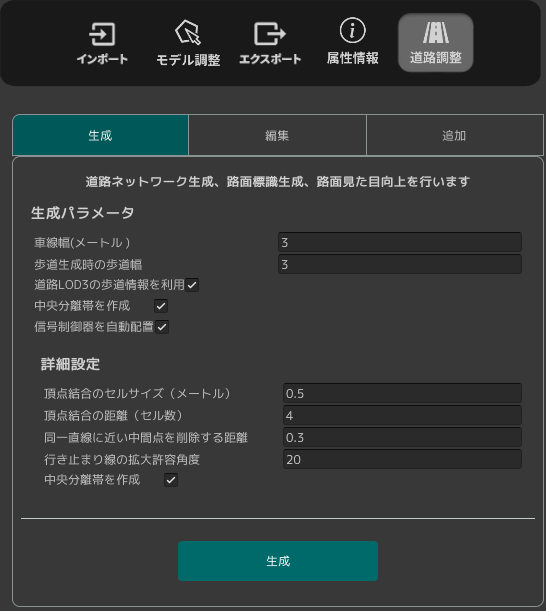
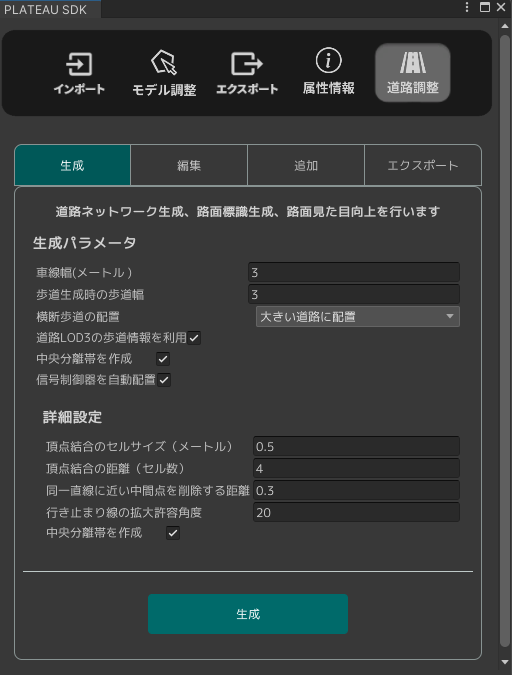
マニュアル追記

Changed region(s): [[0.0, 0.0, 1.0, 0.9951], [0.5, 0.3732, 0.9062, 0.4975]]

diff --git a/Documentation~/manual/RoadNetwork.md b/Documentation~/manual/RoadNetwork.md
@@ -29,15 +29,16 @@
 この画面を開くには、メニューバーの PLATEAU → PLATEAU SDKからウィンドウを開き、「道路調整」タブを開きます。  
 ![](../resources/manual/roadnetwork/generate_panel.png)
 
-道路調整の画面は次の3つのタブに分かれています。
+道路調整の画面は次の4つのタブに分かれています。
 - `生成`：道路ネットワークの自動生成ができます。
 - `編集`：生成済みの道路ネットワークの編集ができます。
 - `追加`：生成済みの道路ネットワークに新しい道路や交差点を追加できます。
+- `エクスポート`： 道路ネットワークをGeoJson形式でエクスポートできます。
 
 ### 「生成」タブ
 生成タブの画面では、インポート済みの道路モデルから道路ネットワークを自動で生成できます。  
 「生成」ボタンをクリックしてしばらくすると道路ネットワークが生成されます。  
-加えて、車道や停止線などの白線が生成され、歩道は段差になり、見た目が良くなります。 
+加えて、車道の白線や停止線、横断歩道、車線の矢印標示が生成され、歩道は段差になり、見た目が良くなります。 
 
 ![generated_road.png](../resources/manual/roadnetwork/generated_road.png)
 
@@ -45,7 +46,7 @@
 - `ReproducedRoad`という名称のゲームオブジェクト
   - 生成された道路メッシュおよび道路標示（白線、停止線など）がこの子オブジェクトに格納されます。
   - 各子オブジェクトにはコンポーネント `PLATEAUReproducedRoad` が付与されており、どの道路モデルから生成されたかが記録されます。
-  - 子ゲームオブジェクトの名称は、道路メッシュであれば `Generated-(道路オブジェクト名)` となり、道路標示であれば `RoadMarking-(道路オブジェクト名)` となります。
+  - 子ゲームオブジェクトの名称は、道路メッシュであれば `Road-(道路オブジェクト名)` となり、横断歩道であれあば`Crosswalk-(道路オブジェクト名)` 、白線および車線の矢印であれば `LaneArrow-(道路オブジェクト名)` となります。
 - `RoadNetworkTester`という名称のゲームオブジェクト
   - これに付与されているコンポーネント `PLATEAURnStructureModel` に道路ネットワークが格納されます。
   - 同ゲームオブジェクトに付与されているコンポーネント `PLATEAURnModelDrawerDebug`では、`Visible`をオンにすることで道路ネットワーク構造を可視化できます。
@@ -65,7 +66,8 @@
 
 - 生成パラメータ  
   - `車線幅（メートル）`：3D都市モデルの道路幅と車線幅を基準に車線が生成されます。車線数や形状に影響します。  
-  - `歩道生成時の歩道幅`：歩道が生成可能な場合にこの幅を基準に歩道が生成されます。  
+  - `歩道生成時の歩道幅`：歩道が生成可能な場合にこの幅を基準に歩道が生成されます。
+  - `横断歩道の配置`：横断歩道を配置する条件を指定します。
   - `道路LOD3の歩道情報を利用`：LOD3の道路に歩道情報があれば、それを利用して歩道を生成します。LOD3が無い場合は、チェックを外した場合と同様に推定により歩道を決めます。  
   - `中央分離帯を作成`：可能であれば中央分離帯を作成します。  
   - `信号制御器を自動配置`：信号制御器、信号機を自動で生成します。信号の制御はデフォルト値が適用されています。  
@@ -78,8 +80,7 @@
   - `高速道路を対象外にする`：高速道路を自動生成の対象外にします。  
 
 ### 「編集」タブ
-編集タブの画面では、生成済みの道路ネットワークを編集します。ここでは道路と交差点を編集します。  
-【現状は道路のみで、交差点は開発途中です。】
+編集タブの画面では、生成済みの道路ネットワークを編集します。ここでは道路と交差点を編集します。
 ![](../resources/manual/roadnetwork/edit_panel.png)
 
 「編集モード」ボタンをクリックしてを有効化すると、シーンビュー上に道路と交差点の2種類のアイコンが表示されます。  
@@ -91,15 +92,15 @@
 編集対象に道路を選んだとき、次の操作ができます。
 
 - 【幅変更】シーンビュー上で車線や歩道の境界をドラッグして幅を変更します。 
-- 【レーン変更】PLATEAU SDKウィンドウから車線数や歩道、中央分離帯の有無を設定します。
+- 【道路情報変更】PLATEAU SDKウィンドウから車線数や歩道、中央分離帯の有無、および横断歩道の有無を設定します。
 - 【スプライン変更】車線のカーブ具合を変更します。
 
 ##### 幅変更
 シーンビュー上では、白線が引かれている箇所（歩道の境界、車線の境界）を左右にドラッグすることで  
 歩道や車道の幅を変更できます。
 
-#### レーン変更
-PLATEAU SDKウィンドウ上で、車線数や歩道、中央分離帯の有無を設定できます。
+#### 道路情報変更
+PLATEAU SDKウィンドウ上で、車線数や歩道、中央分離帯の有無、および横断歩道の有無を設定できます。
 ウィンドウ上での設定は「編集内容を確定」ボタンをクリックすることで反映されます。  
  
 ![](../resources/manual/roadnetwork/scene_view_on_editing_road.png)
@@ -107,6 +108,7 @@ PLATEAU SDKウィンドウ上で、車線数や歩道、中央分離帯の有無
 - `車線数`：道路の車線数を変更します。
 - `中央分離帯の有無`：中央分離帯の有無を変更します。
 - `歩道の有無`：歩道の有無を変更します。
+- `横断歩道の配置`：横断歩道の有無を変更します。
 
 #### スプライン変更
 車線のカーブ具合を変更します。  
@@ -135,12 +137,25 @@ PLATEAU SDKウィンドウ上で、車線数や歩道、中央分離帯の有無
 -->
 
 #### 交差点編集
-【開発途中の機能です。】  
-交差点が編集対象の時には交差点の内の車の経路や歩道の有無、形状などを編集できます。
+編集対象に交差点を選んだとき、トラック（交差点内の車の経路）と形状を編集できます。  
+
+![](../resources/manual/roadnetwork/editing_intersection_scene_view.png)
+#### トラック（交差点内経路）の追加削除
+- 経路を選択するために、まず赤い丸（トラックの流入点）をクリックし、その次に青い丸（流出点）をクリックします。
+- 選択した流入点・流出点をもつトラックがなければ新規作成され、あれば削除されます。
+
+#### 交差点の線の編集
+- 次の線をクリックして選択できます： 交差点の外形である水色の線、またはトラックの経路である黄色の線
+- 線を選択すると、線の形状を編集できます。線上の点が球体として可視化されるので、球体をドラッグして移動、辺をクリックして点を追加、Ctrl+球体クリックで点を削除します。
+- Enterキーで編集を確定します。
 
 ### 「追加」タブ
 【開発途中の機能です。】  
 追加タブの画面では、道路ネットワークに対して交差点や道路を追加できます。
 ![](../resources/manual/roadnetwork/add_panel.png)
 
-  
+### 「エクスポート」タブ
+- 道路ネットワークをGeoJSON形式でエクスポートできます。これは地理情報システムでよく利用される形式です。
+
+![](../resources/manual/roadnetwork/export_road_network.png)
+
